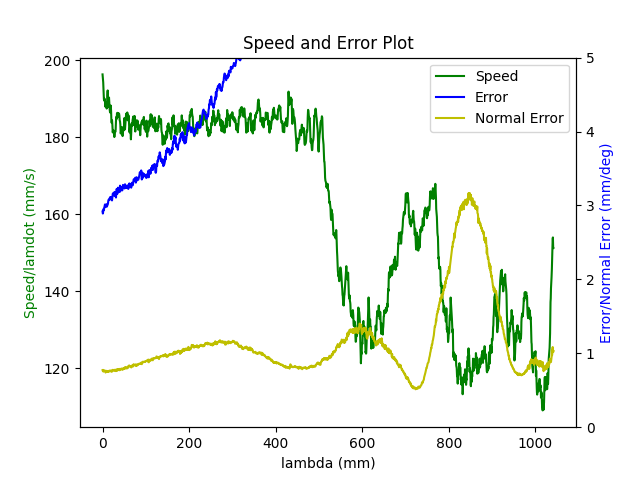
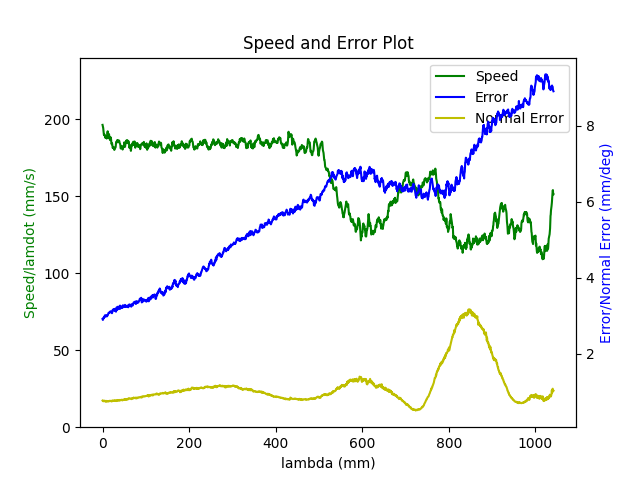
mocap average

diff --git a/realrobot/motoman/repeatability/analysis_mocap.py b/realrobot/motoman/repeatability/analysis_mocap.py
@@ -47,7 +47,7 @@ for N in num_runs:
 
 			###throw bad curves
 			lam_temp, curve_exe_temp, curve_exe_R_temp, speed_temp, timestamp_temp=ms.chop_extension_mocap(curve_exe, curve_exe_R, speed, timestamp,curve[0,:3],curve[-1,:3],p_bp[0][0])
-
+			curve_exe_w_temp=R2w(curve_exe_R_temp,np.eye(3))
 			error,angle_error=calc_all_error_w_normal(curve_exe_temp,curve[:,:3],curve_exe_R_temp[:,:,-1],curve[:,3:])
 			
 			######################################PLOT############################
@@ -56,8 +56,8 @@ for N in num_runs:
 			ax1.plot(lam_temp, speed_temp, 'g-', label='Speed')
 			ax2.plot(lam_temp, error, 'b-',label='Error')
 			ax2.plot(lam_temp, np.degrees(angle_error), 'y-',label='Normal Error')
-			ax2.axis(ymin=0,ymax=5)
-			# ax1.axis(ymin=0,ymax=1.2*v)
+			# ax2.axis(ymin=0,ymax=5)
+			ax1.axis(ymin=0,ymax=1.2*v)
 
 			ax1.set_xlabel('lambda (mm)')
 			ax1.set_ylabel('Speed/lamdot (mm/s)', color='g')
@@ -72,14 +72,9 @@ for N in num_runs:
 
 			total_time_all.append(timestamp_temp[-1]-timestamp_temp[0])
 			timestamp=timestamp-timestamp[0]
-			curve_exe_all.append(curve_exe)
-			curve_exe_w_all.append(curve_exe_w)
-			timestamp_all.append(timestamp)
-
-
-
-
-
+			curve_exe_all.append(curve_exe_temp)
+			curve_exe_w_all.append(curve_exe_w_temp)
+			timestamp_all.append(timestamp_temp)
 
 
 		###trajectory outlier detection, based on chopped time
@@ -91,16 +86,19 @@ for N in num_runs:
 		speed=get_speed(curve_exe_avg,timestamp_d)
 
 		#############################chop extension off##################################
-		lam, curve_exe, curve_exe_R, speed, timestamp=ms.chop_extension_mocap(curve_exe_avg, curve_exe_R_avg, speed, timestamp_d,curve[0,:3],curve[-1,:3],p_bp[0][0])
+		# lam, curve_exe, curve_exe_R, speed, timestamp=ms.chop_extension_mocap(curve_exe_avg, curve_exe_R_avg, speed, timestamp_d,curve[0,:3],curve[-1,:3],p_bp[0][0])
+		# error,angle_error=calc_all_error_w_normal(curve_exe,curve[:,:3],curve_exe_R[:,:,-1],curve[:,3:])
 
-		error,angle_error=calc_all_error_w_normal(curve_exe,curve[:,:3],curve_exe_R[:,:,-1],curve[:,3:])
+		lam=calc_lam_cs(curve_exe_avg)
+		error,angle_error=calc_all_error_w_normal(curve_exe_avg,curve[:,:3],curve_exe_R_avg[:,:,-1],curve[:,3:])
 
+		
 		fig, ax1 = plt.subplots()
 		ax2 = ax1.twinx()
 		ax1.plot(lam, speed, 'g-', label='Speed')
 		ax2.plot(lam, error, 'b-',label='Error')
 		ax2.plot(lam, np.degrees(angle_error), 'y-',label='Normal Error')
-		ax2.axis(ymin=0,ymax=5)
+		# ax2.axis(ymin=0,ymax=5)
 		ax1.axis(ymin=0,ymax=1.2*v)
 
 		ax1.set_xlabel('lambda (mm)')
